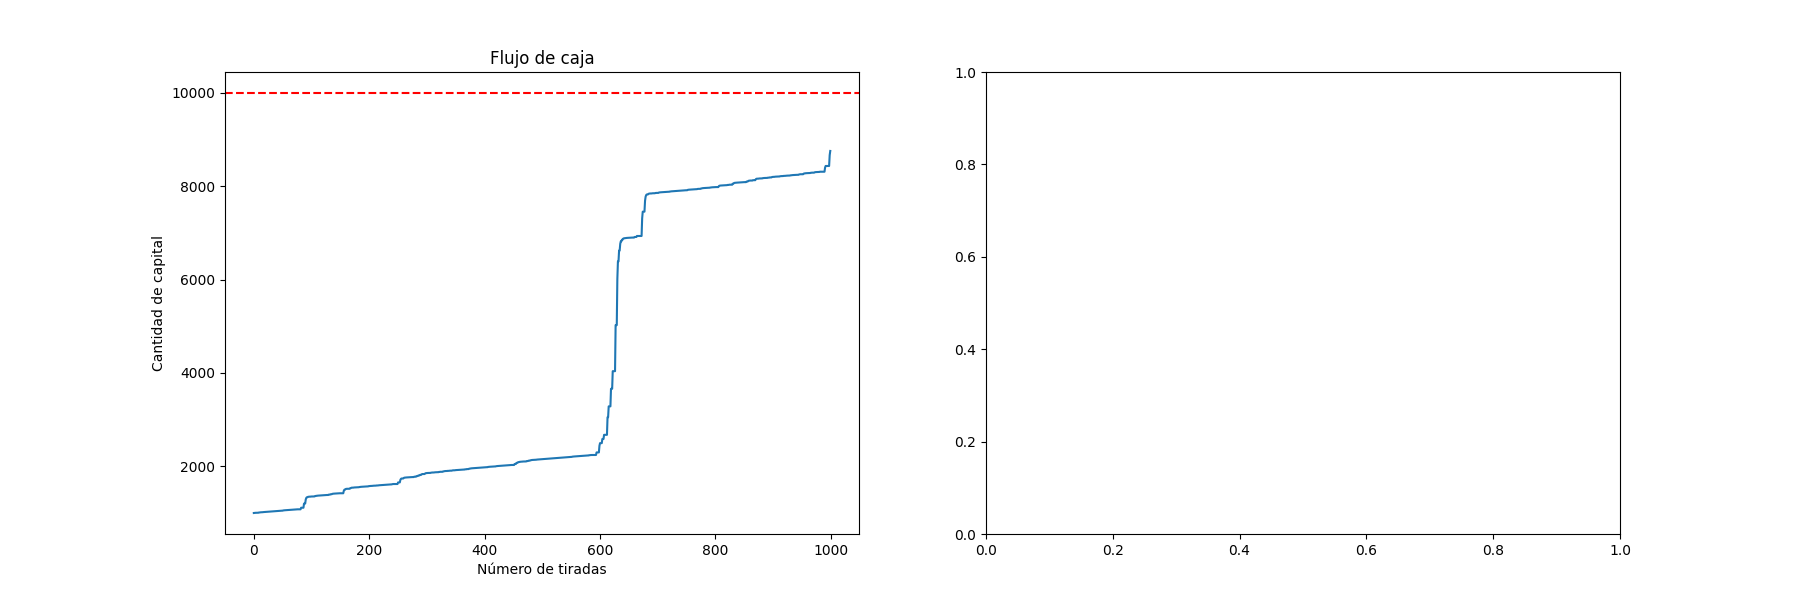
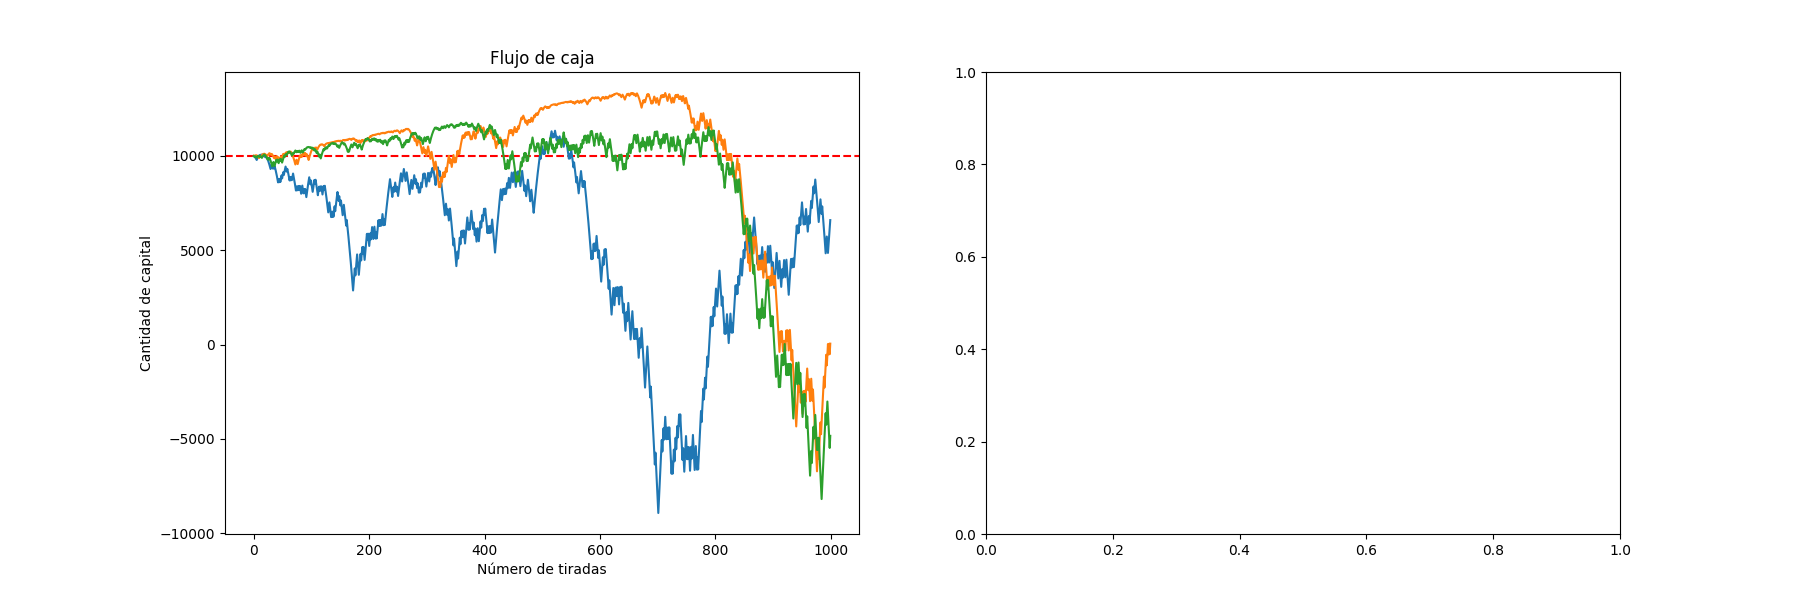
cambios

diff --git a/tps/sim-ruleta-2/ruleta_v2.py b/tps/sim-ruleta-2/ruleta_v2.py
@@ -22,10 +22,11 @@ fig, axs = plt.subplots(1, 2, figsize=(18, 6))
 axs[0].axhline(y=10000, color='red', linestyle='--', label="Monto de caja inicial")
 for j in range(num_corridas):
     #Elegimos el monto caja inicial de 10000 U.M.
-    monto_caja_actual = 1000
+    monto_caja_actual = 10000
     valores = [random.randint(0,36) for i in range(cant_tiradas)]
     valores_corrida.append(valores)
     monto_caja = []
+
 
     if (estrategia_elegida == "m"):
         apuesta_m = 10
@@ -42,13 +43,12 @@ for j in range(num_corridas):
             monto_caja.append(monto_caja_actual)
             print(monto_caja)
 
+
     if  (estrategia_elegida == "f"):
+        # Elegimos el color ROJO para hacer la prueba
         f1 = 0
         f2 = 1
         apuesta_f = f1 + f2
-        # Elegimos el color ROJO para hacer la prueba
-        print("f1 antes: ", f1, " en 0")
-        print("f2 antes: ", f2, " en 0")
         for i in range(cant_tiradas):
             if(((monto_caja_actual - apuesta_f) < 0) and (tipo_capital == "f")):
                 break
@@ -61,12 +61,28 @@ for j in range(num_corridas):
                     f1 = f1 - f2
                 apuesta_f = f1 + f2
             else:
+                monto_caja_actual = monto_caja_actual - apuesta_f
                 f1 = f2
                 f2 = apuesta_f
                 apuesta_f = f1 + f2
             monto_caja.append(monto_caja_actual)
-            if (f2 < f1):
-                print("TA MAL")
+
+
+    if  (estrategia_elegida == "d"):
+        # Elegimos el color ROJO para hacer la prueba
+        apuesta_d = 10
+        constante_suma_resta = 10
+        for i in range(cant_tiradas):
+            if(((monto_caja_actual - apuesta_d) < 0) and (tipo_capital == "f")):
+                break
+            if(valores[i] in numeros_rojos):
+                monto_caja_actual = monto_caja_actual + apuesta_d
+                if(apuesta_d > 10):
+                    apuesta_d = apuesta_d - constante_suma_resta
+            else:
+                monto_caja_actual = monto_caja_actual - apuesta_d
+                apuesta_d = apuesta_d + constante_suma_resta
+            monto_caja.append(monto_caja_actual)
 
 
     montos_cajas_corrida.append(monto_caja)
